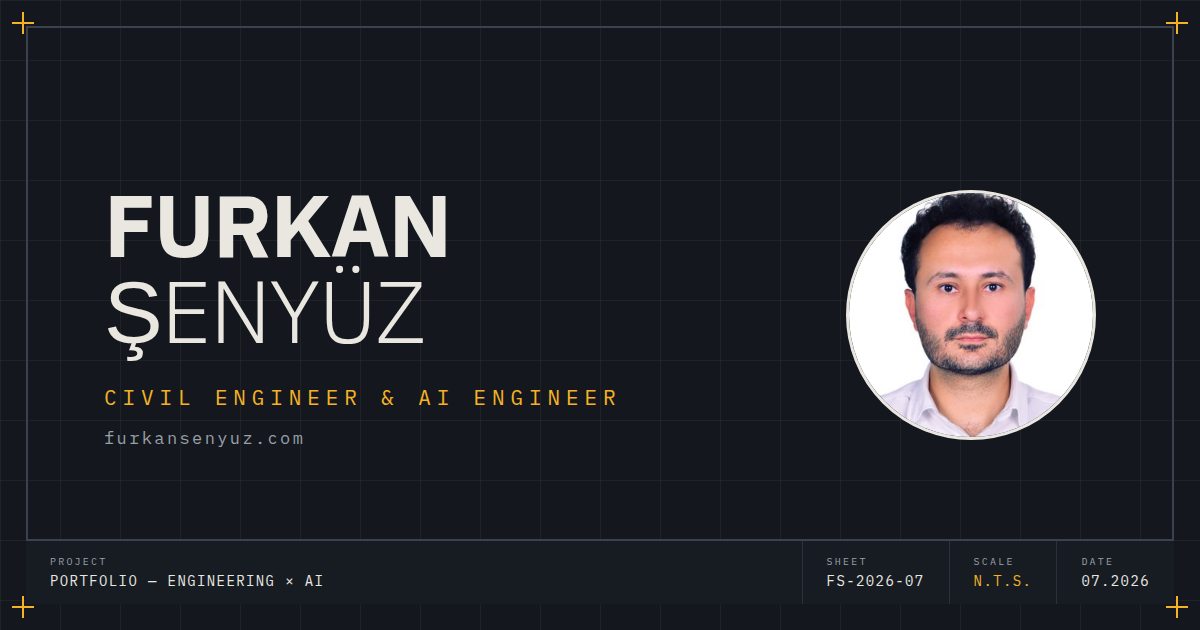
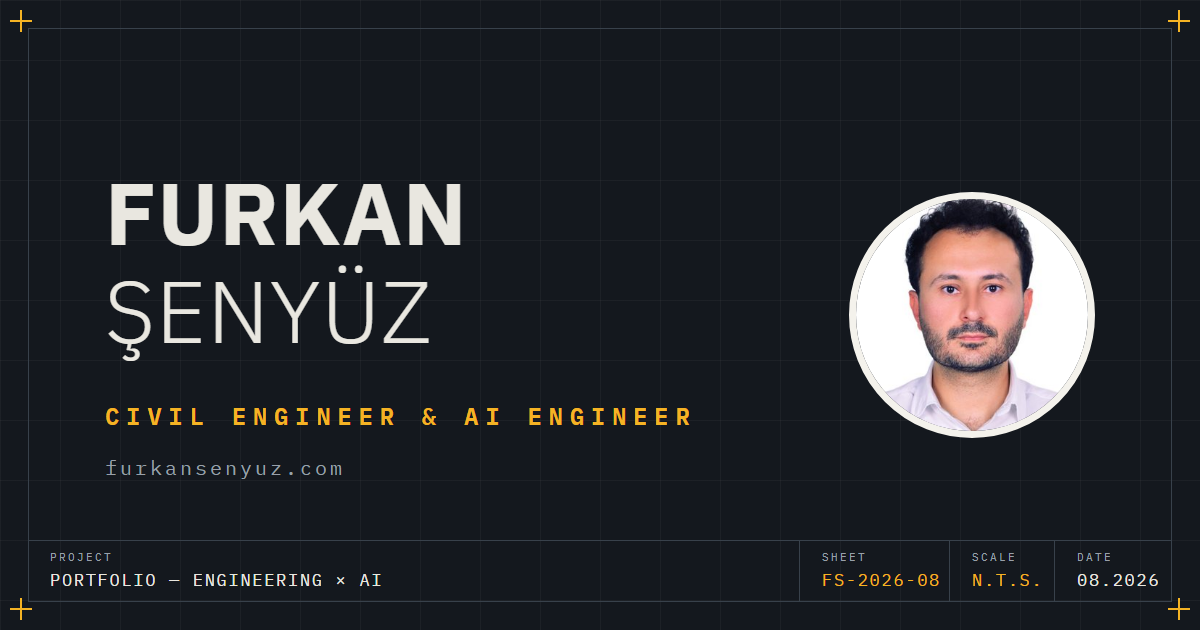
Refresh og-card (FS-2026-08, 08.2026) + add its HTML source; tidy Medium link; full bootcamp name in EN creds
- og-card.png regenerated to match the current footer sheet/date; og-card.html
  added as the render source (chrome --headless --screenshot, 1200x630)
- FS-AI-06 Medium link now the short canonical form (redirects to the article)
- EN cred label expanded to 'Data Science & Machine Learning Bootcamp'
  to match the CV and the other languages

diff --git a/og-card.html b/og-card.html
@@ -1,0 +1,69 @@
+<!DOCTYPE html>
+<html lang="en">
+<head>
+<meta charset="UTF-8">
+<title>og-card source — Furkan Şenyüz</title>
+<!--
+  SOURCE for og-card.png (1200×630 social share card).
+  Render: chrome --headless=new --screenshot=og-card.png --window-size=1200,630
+          --hide-scrollbars --virtual-time-budget=10000 og-card.html
+  Keep SHEET / DATE in the title block in sync with index.html's footer.
+-->
+<link rel="preconnect" href="https://fonts.googleapis.com">
+<link rel="preconnect" href="https://fonts.gstatic.com" crossorigin>
+<link href="https://fonts.googleapis.com/css2?family=IBM+Plex+Mono:wght@400;600&family=IBM+Plex+Sans:wght@300;700&display=swap" rel="stylesheet">
+<style>
+  :root{
+    --paper:#14181E; --ink:#E9E7E0; --mut:#99A0A9; --line:#2A3139; --line2:#38414B;
+    --acc:#F5B324; --grid:rgba(233,231,224,.045);
+  }
+  *{margin:0;padding:0;box-sizing:border-box}
+  html,body{width:1200px;height:630px;overflow:hidden}
+  body{
+    background:
+      linear-gradient(var(--grid) 1px, transparent 1px),
+      linear-gradient(90deg, var(--grid) 1px, transparent 1px), var(--paper);
+    background-size:60px 60px,60px 60px,auto;
+    font-family:"IBM Plex Sans",sans-serif; color:var(--ink); position:relative;
+  }
+  .frame{position:absolute;inset:28px;border:1.5px solid var(--line2);pointer-events:none}
+  .reg{position:absolute;width:22px;height:22px}
+  .reg::before,.reg::after{content:"";position:absolute;background:var(--acc)}
+  .reg::before{left:50%;top:0;bottom:0;width:2px;transform:translateX(-50%)}
+  .reg::after{top:50%;left:0;right:0;height:2px;transform:translateY(-50%)}
+  .reg.tl{top:10px;left:10px}.reg.tr{top:10px;right:10px}
+  .reg.bl{bottom:10px;left:10px}.reg.br{bottom:10px;right:10px}
+  .txt{position:absolute;left:105px;top:168px}
+  .n1{font-size:88px;font-weight:700;line-height:1.0;letter-spacing:.01em}
+  .n2{font-size:88px;font-weight:300;line-height:1.0;letter-spacing:.01em;margin-top:10px}
+  .role{font-family:"IBM Plex Mono",monospace;font-weight:600;font-size:24px;letter-spacing:.28em;color:var(--acc);margin-top:46px;white-space:nowrap}
+  .url{font-family:"IBM Plex Mono",monospace;font-size:20px;letter-spacing:.15em;color:var(--mut);margin-top:22px}
+  .port{position:absolute;right:105px;top:192px;width:246px;height:246px;border-radius:50%;
+    object-fit:cover;border:7px solid #F4F2EC;background:#F4F2EC}
+  .tb{position:absolute;left:28px;right:28px;bottom:28px;height:62px;border-top:1.5px solid var(--line2);
+    display:grid;grid-template-columns:1fr 150px 105px 118px}
+  .tb-c{padding:9px 0 0 22px;border-left:1.5px solid var(--line2);min-width:0}
+  .tb-c:first-child{border-left:none}
+  .tb-l{display:block;font-family:"IBM Plex Mono",monospace;font-size:11px;letter-spacing:.22em;color:var(--mut);text-transform:uppercase}
+  .tb-v{display:block;font-family:"IBM Plex Mono",monospace;font-size:17px;letter-spacing:.1em;margin-top:5px;white-space:nowrap}
+  .tb-v.acc{color:var(--acc)}
+</style>
+</head>
+<body>
+  <div class="frame"></div>
+  <span class="reg tl"></span><span class="reg tr"></span><span class="reg bl"></span><span class="reg br"></span>
+  <div class="txt">
+    <div class="n1">FURKAN</div>
+    <div class="n2">ŞENYÜZ</div>
+    <div class="role">CIVIL ENGINEER &amp; AI ENGINEER</div>
+    <div class="url">furkansenyuz.com</div>
+  </div>
+  <img class="port" src="profile.jpg" alt="">
+  <div class="tb">
+    <div class="tb-c"><span class="tb-l">Project</span><span class="tb-v">PORTFOLIO — ENGINEERING × AI</span></div>
+    <div class="tb-c"><span class="tb-l">Sheet</span><span class="tb-v acc">FS-2026-08</span></div>
+    <div class="tb-c"><span class="tb-l">Scale</span><span class="tb-v acc">N.T.S.</span></div>
+    <div class="tb-c"><span class="tb-l">Date</span><span class="tb-v">08.2026</span></div>
+  </div>
+</body>
+</html>

diff --git a/index.html b/index.html
@@ -709,7 +709,7 @@ html{scrollbar-color:var(--line2) transparent}
             <span class="rno">FS-AI-06</span>
             <div><div class="rt">Concrete Strength Prediction<span class="rtags" lang="en">scikit-learn · SHAP</span></div>
             <p data-i="p6">ML model predicting concrete compressive strength from mix design, with a TS EN 206-1 compliance layer.</p>
-            <p><a href="https://furkansenyuz.com/beton-dayanimi-tahmini/demo/" target="_blank" rel="noopener">Live demo</a> · <a href="https://github.com/furkansenyuz/beton-dayanimi-tahmini" target="_blank" rel="noopener">GitHub</a> · <a href="https://furkansenyuz.medium.com/betonun-28-g%C3%BCn-s%C4%B1rr%C4%B1-bas%C4%B1n%C3%A7-dayan%C4%B1m%C4%B1n%C4%B1-makine-%C3%B6%C4%9Frenmesiyle-tahmin-etmek-e0b5353eb6be" target="_blank" rel="noopener">Medium</a></p></div>
+            <p><a href="https://furkansenyuz.com/beton-dayanimi-tahmini/demo/" target="_blank" rel="noopener">Live demo</a> · <a href="https://github.com/furkansenyuz/beton-dayanimi-tahmini" target="_blank" rel="noopener">GitHub</a> · <a href="https://furkansenyuz.medium.com/e0b5353eb6be" target="_blank" rel="noopener">Medium</a></p></div>
             <div class="rst"><span class="chip ok" data-i="stDeployed">Issued</span></div>
           </div>
         </div>
@@ -720,7 +720,7 @@ html{scrollbar-color:var(--line2) transparent}
         <div class="dim"><h2><span class="k">E</span><span data-i="secE">EDUCATION &amp; CREDENTIALS</span></h2><div class="ln"></div></div>
         <div class="creds">
           <div class="cred"><span class="yr">2026 →</span><span class="ti" data-i="e1">Machine Learning Specialization</span><span class="org">Stanford / Andrew Ng</span></div>
-          <div class="cred"><span class="yr">2026</span><span class="ti" data-i="e12">Data Science &amp; ML Bootcamp</span><span class="org">Türkiye AI Academy · Huawei HSD</span></div>
+          <div class="cred"><span class="yr">2026</span><span class="ti" data-i="e12">Data Science &amp; Machine Learning Bootcamp</span><span class="org">Türkiye AI Academy · Huawei HSD</span></div>
           <div class="cred"><span class="yr">2026</span><span class="ti" data-i="e10">AI &amp; Machine Learning — Data Analysis School</span><span class="org">YÖK · Marmara / ODTÜ / İTÜ / Boğaziçi</span></div>
           <div class="cred"><span class="yr">2026</span><span class="ti" data-i="e11">AI &amp; Productivity Tools — Data Analysis School</span><span class="org">YÖK · Marmara / ODTÜ / İTÜ / Boğaziçi</span></div>
           <div class="cred"><span class="yr">2026</span><span class="ti" data-i="e2">Python for Everybody (5-course)</span><span class="org">University of Michigan</span></div>
